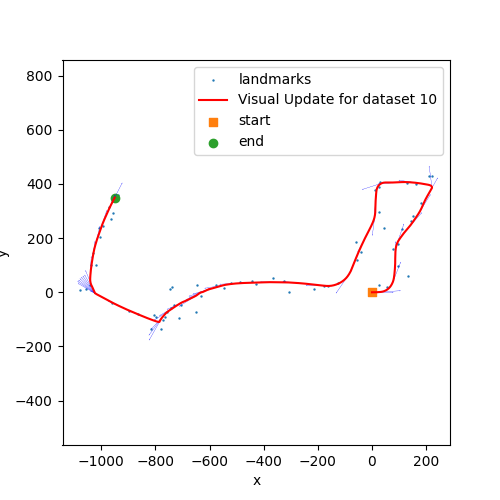
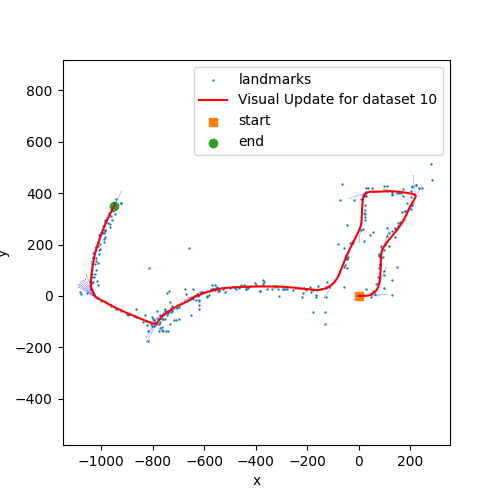
Final final final final

diff --git a/ECE276A_PR3/code/main.py b/ECE276A_PR3/code/main.py
@@ -8,10 +8,10 @@ import matplotlib.pyplot as plt
 if __name__ == '__main__':
 
 	# Load the measurements
-	dataset = "03"
+	dataset = "10"
 	filename = f"../data/{dataset}.npz"
 	t,features,linear_velocity,angular_velocity,K,b,imu_T_cam = load_data(filename)
-
+	feats = features[:,::50,:] #15 for dataset 03 and 50 for dataset 10
 	zeta = np.concatenate([linear_velocity, angular_velocity])
 	zeta_hat = axangle2twist(zeta.T)
 	zeta_pointy_hat = axangle2adtwist(zeta.T)
@@ -36,7 +36,6 @@ if __name__ == '__main__':
 	print("linear_velocity:",linear_velocity.shape)
 	print("angular velocity:", angular_velocity.shape)
 	print("time:",t.shape)
-	feats = features[:,::100,:] #100 for dataset 03 and 200 for dataset 10
 	print("feats:", feats.shape)
 	
 	# (a) IMU Localization via EKF Prediction: no update
@@ -45,9 +44,8 @@ if __name__ == '__main__':
 					[0,-1,0,0],
 					[0,0,-1,0],
 					[0,0,0,1]])
-
 	#T_0 = np.eye(4)
-	
+	'''
 	poses = [T_0]
 	for i,tau_i in enumerate(tqdm.tqdm(np.squeeze(tau))):
 		poses.append( poses[-1] @ expm(tau_i * zeta_hat[i]) )
@@ -69,7 +67,7 @@ if __name__ == '__main__':
 				  [0,0,1],
 				  [0,0,0]])
 	
-	landmark_noise = 3 * np.eye(3)
+	landmark_noise = 5 * np.eye(3)
 	landmark_mean = np.zeros((3*feats.shape[1],1))
 	landmark_seen = np.zeros((feats.shape[1],1))
 	landmark_cov = np.zeros((3*feats.shape[1],3*feats.shape[1]))
@@ -117,29 +115,26 @@ if __name__ == '__main__':
 				
 			#print("H_t", np.unique(H_t))
 			
-			landmark_cov = (landmark_cov + landmark_cov.T)/2
-			K_t = landmark_cov @ H_t.T @ np.linalg.inv(H_t @ landmark_cov @ H_t.T + IxV)
-			#print("K_t", np.unique(K_t))
-			landmark_mean = landmark_mean + \
-				np.array([K_t @ ( z - z_tilda ).T.flatten()]).T
+		landmark_cov = (landmark_cov + landmark_cov.T)/2
+		K_t = landmark_cov @ H_t.T @ np.linalg.inv(H_t @ landmark_cov @ H_t.T + IxV)
+		#print("K_t", np.unique(K_t))
+		landmark_mean = landmark_mean + \
+			np.array([K_t @ ( z - z_tilda ).T.flatten()]).T
 			
-			g = K_t @ H_t
+		g = K_t @ H_t
 			
-			#print(np.unique(g))
-			landmark_cov = (np.eye(3*feats.shape[1]) - g) @ landmark_cov
+		#print(np.unique(g))
+		landmark_cov = (np.eye(3*feats.shape[1]) - g) @ landmark_cov
 			
 			
 	visualize_trajectory_2d_scatter(np.transpose(mew_odometry,axes=(1,2,0)),
 						 landmark_mean[0::3],landmark_mean[1::3],
 						 path_name=f"Visual Update for dataset {dataset}",show_ori=True,
 						 dataset=dataset,fname="visual_update_only")
-	
+	'''
 	# (c) Visual-Inertial SLAM
+
 	mew_odometry = [T_0]
-	mew_t_1_t = [T_0]
-	W = np.diag([.1,.1,.1,.05,.05,.05])
-	cov_odometry = [W]
-	cov_t_1_t_odometry = [W]
 	null_condition = np.array([-1,-1,-1,-1])
 
 	P = np.array([[1,0,0],
@@ -148,39 +143,49 @@ if __name__ == '__main__':
 				  [0,0,0]])
 	
 	
-	
-
+	W = np.diag([1,1,1,.5,.5,.5])
 	count = 0
-	IxV_L = .1 * np.eye(4*feats.shape[1])
-	IxV_M = 3 * np.eye(4*feats.shape[1])
+	IxV_L = 1 * np.eye(4*feats.shape[1])
+	IxV_M = 5 * np.eye(4*feats.shape[1])
 	landmark_noise = 3 * np.eye(3)
 	
 	H_t = np.zeros((4*feats.shape[1],3*feats.shape[1] + 6))
 	H_L = np.zeros((4*feats.shape[1],6))
 	H_M = np.zeros((4*feats.shape[1],3*feats.shape[1]))
-	landmark_cov = np.zeros((3*feats.shape[1],3*feats.shape[1]))
+	slam_cov = np.zeros((3*feats.shape[1]+6,3*feats.shape[1]+6))
 
 	for i in range(feats.shape[1]):
-		landmark_cov[3*i:3*i+3,3*i:3*i+3] = landmark_noise #initialize covariance
+		slam_cov [3*i:3*i+3,3*i:3*i+3] = landmark_noise #initialize covariance
+	slam_cov[-6:,-6:] = W
+
 	landmark_mean = np.zeros((3*feats.shape[1],1))
 	landmark_seen = np.zeros((feats.shape[1],1))
+	mew_t = T_0
 	for i,tau_i in enumerate(tqdm.tqdm(np.squeeze(tau))):
-		mew_t_1_t.append( mew_odometry[-1] @ expm(tau_i * zeta_hat[i]) )
-		cov_t_1_t_odometry.append(expm(-tau_i*zeta_pointy_hat[i]) @ cov_odometry[-1] @ expm(-tau_i*zeta_pointy_hat[i]).T \
-					  + W)
+		mew_t = ( mew_odometry[-1] @ expm(tau_i * zeta_hat[i]) )
+
+		F = expm(-tau_i*zeta_pointy_hat[i])
+
+		slam_cov[-6:,-6:] = F @ slam_cov[-6:,-6:] @ F.T + W
+
+		slam_cov[-6:,:-6] = F @ slam_cov[-6:,:-6]
+		slam_cov[:-6,-6:] = slam_cov[:-6,-6:] @ F.T
 		
+
 		available_feats_indices = np.nonzero(
 			np.apply_along_axis(lambda x: np.all(x != null_condition),0,feats[:,:,i])
 			)[0]
 		
-		cam_T_world = cam_T_imu @ mew_t_1_t[-1] #mew_odometry[-1] is imu_T_world
-		world_T_cam = mew_t_1_t[-1] @ imu_T_cam
+		cam_T_world = cam_T_imu @ mew_t #mew_odometry[-1] is imu_T_world
+		world_T_cam = mew_t @ imu_T_cam
 		z = feats[:,:,i]
 		z_tilda = feats[:,:,i]
+
 		for j in available_feats_indices:
 			count += 1
 			H_L = np.zeros((4*feats.shape[1],6))
 			H_M = np.zeros((4*feats.shape[1],3*feats.shape[1]))
+
 			if landmark_seen[j] == 0:
 				
 				landmark_seen[j] = 1
@@ -198,31 +203,26 @@ if __name__ == '__main__':
 				landmark_local = cam_T_world @ np.vstack([landmark_mean[(3*j):(3*j+3)],1])
 				z_tilda[:,j] = np.squeeze(K_s @ projection(landmark_local.T).T)
 
-				funky = mew_t_1_t[-1] @ np.vstack([landmark_mean[(3*j):(3*j+3)],1])
+				funky = mew_t @ np.vstack([landmark_mean[(3*j):(3*j+3)],1])
 
 				H_L[4*j:4*j+4,:] = (-K_s @ projectionJacobian(landmark_local.T) @ cam_T_imu @ dot_hat(funky))[0] #4x6
 
 				H_M[4*j:4*j+4,3*j:3*j+3] = (K_s @ projectionJacobian(landmark_local.T) @ cam_T_world @ P)[0] #4x3
-			
-			H_t = np.hstack([H_M,H_L]) # 4N x (3M + 6)
+		
 
-			#Localization
-			K_t = cov_t_1_t_odometry[-1] @ H_L.T @ np.linalg.pinv(H_L @ cov_t_1_t_odometry[-1] @ H_L.T + IxV_L)
-			
-			mew_odometry.append(mew_t_1_t[-1] @ expm( 
-				axangle2twist(K_t @ ( z - z_tilda ).T.flatten())
+		H_t = np.hstack([H_M,H_L]) # 4N x (3M + 6)
+		
+		K_t = slam_cov @ H_t.T @ np.linalg.pinv(H_t @ slam_cov @ H_t.T + IxV_L) # (3M + 6) x 4N
+		#print("feats",feats.shape[1])
+		#print(K_t.shape)
+		
+		mew_odometry.append(mew_t @ expm(
+				axangle2twist(K_t[-6:] @ ( z - z_tilda ).T.flatten())
 				))
 			
-			cov_odometry.append( (np.eye(6) - K_t @ H_L) @ cov_t_1_t_odometry[-1] )
-			
-			#Mapping
-			landmark_cov = (landmark_cov + landmark_cov.T)/2
-			K_t = landmark_cov @ H_M.T @ np.linalg.inv(H_M @ landmark_cov @ H_M.T + IxV_M)
+		landmark_mean = landmark_mean + np.array([K_t[:-6,:] @ ( z - z_tilda ).T.flatten()]).T
 
-			landmark_mean = landmark_mean + \
-				np.array([K_t @ ( z - z_tilda ).T.flatten()]).T
-			
-			landmark_cov = (np.eye(3*feats.shape[1]) - K_t @ H_M) @ landmark_cov
+		slam_cov = (np.eye(3*feats.shape[1]+6) - K_t @ H_t) @ slam_cov
 			
 	visualize_trajectory_2d_scatter(np.transpose(mew_odometry,axes=(1,2,0)),
 						 landmark_mean[0::3],landmark_mean[1::3],
